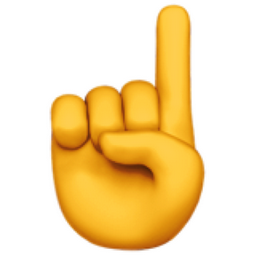
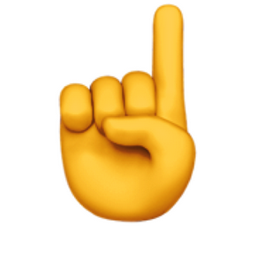
additional changes

Changed region(s): [[0.1875, 0.0, 0.8125, 1.0]]

diff --git a/src/views/MarketOptions/Trade.vue b/src/views/MarketOptions/Trade.vue
@@ -36,54 +36,44 @@
             </div>
 
             <div>
-              <div style="padding-top:30px">
-                <span class="infoText">Choose your position</span>
+              <div style="padding-top:30px; padding-bottom:10px">
+                <span class="infoText"
+                  >Choose your<br />
+                  position
+                  <span class="Question"
+                    >?
+                    <md-tooltip md-direction="top" class="toolTip"
+                      >Bet on a direction that you think Dai will
+                      move.</md-tooltip
+                    >
+                  </span></span
+                >
               </div>
               <div class="md-layout">
-                <div class="md-layout-item" @click="changeDirection(true)">
-                  <div class="md-layout-item" style="padding-top:15px">
-                    <div
-                      :class="
-                        directionLong
-                          ? 'directionSelected'
-                          : 'directionNotSelected'
-                      "
-                    >
+                <div
+                  class="md-layout-item"
+                  @click="changeDirection(directionLong)"
+                >
+                  <div
+                    class="md-layout-item"
+                    :class="
+                      !directionLong ? 'spinClockwise' : 'spinCounterClockwise'
+                    "
+                  >
+                    <div>
                       <img
+                        style="margin-top:15px"
                         class="text-center finger"
                         src="../../assets/point.png"
                       />
                     </div>
                   </div>
                 </div>
-                <div class="md-layout-item" @click="changeDirection(false)">
-                  <div class="md-layout-item" style="padding-top:15px">
-                    <div
-                      :class="
-                        !directionLong
-                          ? 'directionSelected'
-                          : 'directionNotSelected'
-                      "
-                    >
-                      <img
-                        class="text-center fingerFlip"
-                        src="../../assets/point.png"
-                      />
-                    </div>
-                  </div>
-                </div>
               </div>
-              <div>
-                <br />
-
-                <span class="Question"
-                  >?
-                  <md-tooltip md-direction="bottom" class="toolTip"
-                    >Bet on a direction that you think Dai will
-                    move.</md-tooltip
-                  >
-                </span>
-                <!-- <md-tooltip md-direction="bottom">Bottom</md-tooltip> -->
+              <div style="padding-top:10px">
+                <span class="yellowText">{{
+                  directionLong ? "UpDAI" : "DownDAI"
+                }}</span>
               </div>
             </div>
             <div class="md-layout-item" style="padding-top:30px">
@@ -131,7 +121,7 @@ export default {
   },
   methods: {
     changeDirection(direction) {
-      this.directionLong = direction;
+      this.directionLong = !this.directionLong;
     },
     deposit() {
       console.log("deposit");
@@ -225,13 +215,13 @@ export default {
   transition: 0.3s;
 }
 .finger {
-  padding-top: 5px;
+  padding: 0px;
   position: relative;
-  width: 75px;
-  height: 75px;
+  width: 65px;
+  height: 65px;
 }
 .fingerFlip {
-  padding-top: 5px;
+  padding-top: 0px;
   position: relative;
   width: 75px;
   height: 75px;
@@ -252,7 +242,7 @@ export default {
   font-weight: 500;
 }
 .Question {
-  font-size: 18px;
+  font-size: 12px;
   // line-height: 18px;
   align-items: center;
   text-align: center;
@@ -262,8 +252,8 @@ export default {
   width: 64px;
   padding-top: 4px;
   padding-bottom: 4px;
-  padding-left: 10px;
-  padding-right: 10px;
+  padding-left: 7px;
+  padding-right: 7px;
 }
 .toolTip {
   background-color: #c4c4c4;
@@ -295,5 +285,37 @@ export default {
   font-size: 14px;
   line-height: 16px;
   color: #ffba01;
+}
+.spinClockwise {
+  animation-name: spinClockwise;
+  animation-duration: 500ms;
+  animation-iteration-count: 1;
+  animation-timing-function: linear;
+  animation-fill-mode: forwards;
+}
+
+@keyframes spinClockwise {
+  from {
+    transform: rotate(0deg);
+  }
+  to {
+    transform: rotate(180deg);
+  }
+}
+.spinCounterClockwise {
+  animation-name: spinCounterClockwise;
+  animation-duration: 500ms;
+  animation-iteration-count: 1;
+  animation-timing-function: linear;
+  animation-fill-mode: forwards;
+}
+
+@keyframes spinCounterClockwise {
+  from {
+    transform: rotate(-180deg);
+  }
+  to {
+    transform: rotate(0deg);
+  }
 }
 </style>

diff --git a/src/App.vue b/src/App.vue
@@ -1,6 +1,10 @@
 <template>
   <md-app id="app" md-mode="reveal" style="min-height: 100vh;">
-    <md-app-toolbar md-elevation="0" id="toolbar">
+    <md-app-toolbar
+      md-elevation="0"
+      id="toolbar"
+      style="padding-top:25px;padding-bottom:50px"
+    >
       <router-link class="logo" to="/">
         <img class="logo" src="./assets/Logo.png" />
       </router-link>
